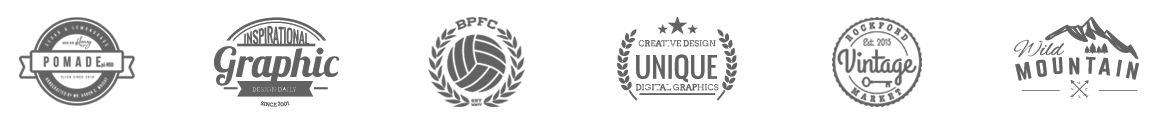
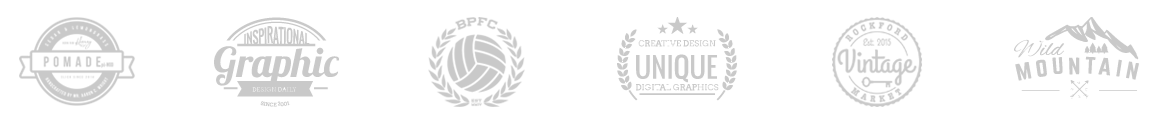
Some changes

diff --git a/Базовый курс/www/css/style.css b/Базовый курс/www/css/style.css
@@ -182,6 +182,12 @@ body {
     padding-top: 100px;
 }
 
+.page-company {
+    background-color: #fdfdfd;
+    padding-top: 100px;
+    padding-bottom: 100px;
+}
+
 .box {
     display: flex;
     border-left: 1px solid #e4e4e4;
@@ -772,6 +778,37 @@ body {
 .company-one {
     width: 118px;
     flex-basis: 118px;
+    background-position: -17px center;
+}
+
+.company-two {
+    width: 126px;
+    flex-basis: 126px;
+    background-position: -213px center;
+}
+
+.company-three {
+    width: 99px;
+    flex-basis: 99px;
+    background-position: -427px center;
+}
+
+.company-four {
+    width: 121px;
+    flex-basis: 121px;
+    background-position: -617px center;
+}
+
+.company-five {
+    width: 92px;
+    flex-basis: 92px;
+    background-position: -831px center;
+}
+
+.company-six {
+    width: 126px;
+    flex-basis: 126px;
+    background-position: -1014px center;
 }
 
 .footer {

diff --git a/Базовый курс/www/index.html b/Базовый курс/www/index.html
@@ -408,7 +408,7 @@
                 </div>
             </div>
         </div>  
-        <div class="page page-gray">
+        <div class="page page-company">
             <div class="wrapper">
                 <div class="company">
                     <div class="company-item company-one"></div>
@@ -442,5 +442,11 @@
         </div>
     </footer>
     <script src="js/all.min.js"></script>
+    <script src="https://code.jquery.com/jquery-3.5.1.min.js" integrity="sha256-9/aliU8dGd2tb6OSsuzixeV4y/faTqgFtohetphbbj0=" crossorigin="anonymous"></script>
+    <script>
+        $("#btnUp").click(function() {
+            $("html").animate({scrollTop: 0}, "slow");
+        });    
+    </script>
  </body>
 </html>
